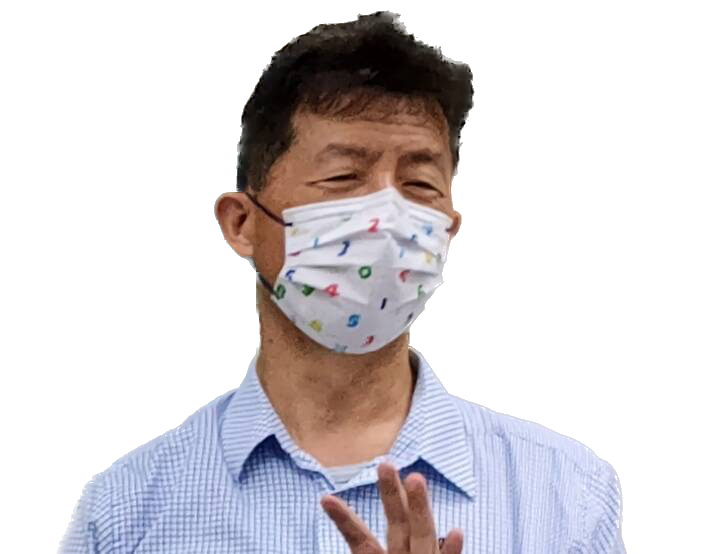
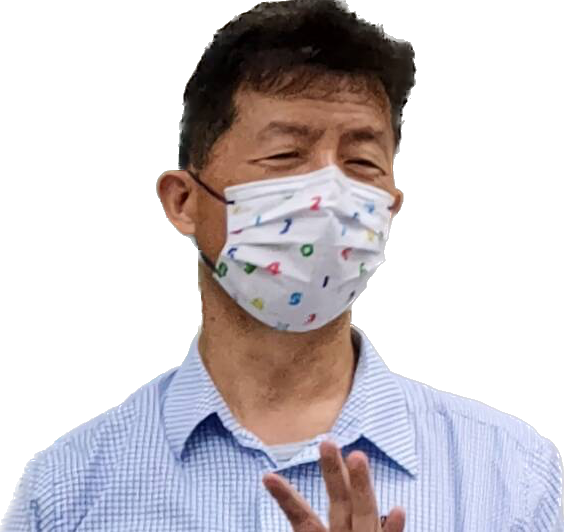
change bg size

diff --git a/index.html b/index.html
@@ -2,7 +2,7 @@
 <style>
     body{
         background-repeat: no-repeat;
-        background-size: cover;
+        background-size: contain;
     }
 </style>
 <body background="./src/images/去背的tsenghead_bg.png">
